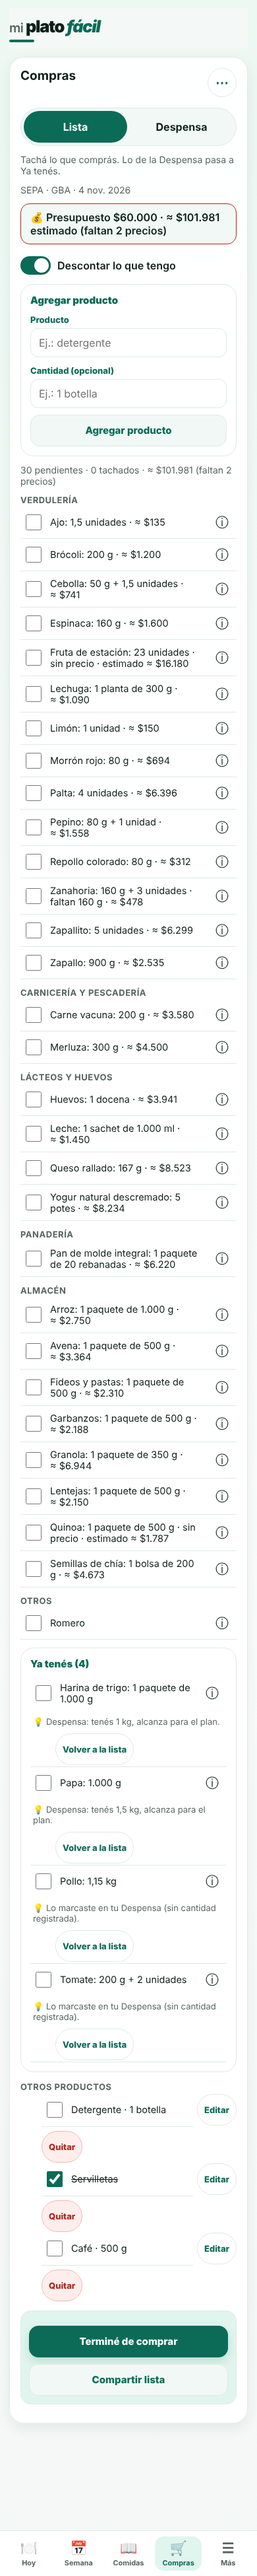
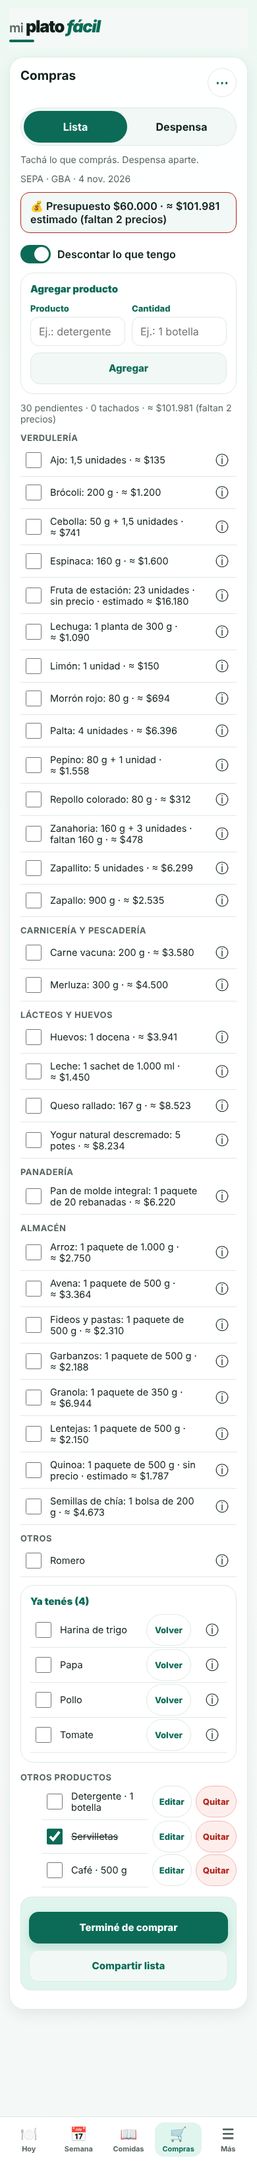
Etapa 41 (Ronda 5): sin desbordes a 320 px en Otros productos; código y CSS sin uso fuera
Claude-Session: https://claude.ai/code/session_013apjtgkZBa2FW5hJdYkK1c

diff --git a/index.html b/index.html
@@ -2184,17 +2184,6 @@ body:has(#home.is-active) .app-shell{
 
 }
 
-#quantShoppingPanel input[type="text"]{
-  width:100%;
-  min-height:44px;
-  padding:10px;
-  border:1px solid var(--line);
-  border-radius:12px;
-  background:var(--surface);
-  color:var(--text);
-  font:inherit
-}
-
 #pricePanel input,#pricePanel select{
   width:100%;
   min-height:44px;
@@ -3672,8 +3661,8 @@ select{max-width:100%;min-width:0}
 #manualShoppingForm{display:grid;grid-template-columns:1fr 1fr;gap:0 10px;align-items:start}
 #manualShoppingForm .portion-field+.portion-field{margin-top:0}
 #manualShoppingForm .summary-actions{grid-column:1 / -1}
-#manualShopList .manual-shop-row{flex-wrap:nowrap}
-#manualShopList .manual-shop-row .shop-item{flex:1 1 0;min-width:0}
+#manualShopList .manual-shop-row .shop-item{flex:1 1 150px;min-width:0}
+#manualShopList .manual-shop-row .shop-item>span{min-width:0;overflow-wrap:anywhere}
 #manualShopList .manual-shop-row .filter-chip{flex:0 0 auto}
 .despensa-revisar{margin:12px 0}
 .despensa-revisar .button{width:100%}
@@ -12534,7 +12523,6 @@ document.addEventListener("click",e=>{
       }
       if(u.keys)u.keys.forEach(k=>comprasTransferred.delete(k));
       RegistroRapido.afterOneTap();
-      if(key==="bought")renderCompras();
       RegistroRapido.oneTapStatus(u.status,"Listo, se deshizo.")
     }
   }catch(err){

diff --git a/fuente/estilos.css b/fuente/estilos.css
@@ -2183,17 +2183,6 @@ body:has(#home.is-active) .app-shell{
 
 }
 
-#quantShoppingPanel input[type="text"]{
-  width:100%;
-  min-height:44px;
-  padding:10px;
-  border:1px solid var(--line);
-  border-radius:12px;
-  background:var(--surface);
-  color:var(--text);
-  font:inherit
-}
-
 #pricePanel input,#pricePanel select{
   width:100%;
   min-height:44px;
@@ -3671,8 +3660,8 @@ select{max-width:100%;min-width:0}
 #manualShoppingForm{display:grid;grid-template-columns:1fr 1fr;gap:0 10px;align-items:start}
 #manualShoppingForm .portion-field+.portion-field{margin-top:0}
 #manualShoppingForm .summary-actions{grid-column:1 / -1}
-#manualShopList .manual-shop-row{flex-wrap:nowrap}
-#manualShopList .manual-shop-row .shop-item{flex:1 1 0;min-width:0}
+#manualShopList .manual-shop-row .shop-item{flex:1 1 150px;min-width:0}
+#manualShopList .manual-shop-row .shop-item>span{min-width:0;overflow-wrap:anywhere}
 #manualShopList .manual-shop-row .filter-chip{flex:0 0 auto}
 .despensa-revisar{margin:12px 0}
 .despensa-revisar .button{width:100%}

diff --git a/fuente/codigo/34-registrar-en-un-toque.js b/fuente/codigo/34-registrar-en-un-toque.js
@@ -184,7 +184,6 @@ document.addEventListener("click",e=>{
       }
       if(u.keys)u.keys.forEach(k=>comprasTransferred.delete(k));
       RegistroRapido.afterOneTap();
-      if(key==="bought")renderCompras();
       RegistroRapido.oneTapStatus(u.status,"Listo, se deshizo.")
     }
   }catch(err){

diff --git a/docs/plan-rediseno.md b/docs/plan-rediseno.md
@@ -3098,3 +3098,5 @@ Rama `rediseno-5-etapa-41-compras` (desde `rediseno-5`). Ítems: K-01 a K-17. To
 
 **Pruebas adaptadas** (cada una con su ítem; ninguna se borró ni bajó de cantidad): `e5_compras.js` (C5-1, C5-3, C5-4, C5-6, C5-8, C5-9: sin Deshacer, menú de tres herramientas, existencias desde Despensa), `dp01_despensa.js` (DP7 y DP8: ya no se deshace, se vuelve a cargar), `u01_toque.js` (U7: "Lo compré" sin Deshacer), `n01_nav.js` (N14: sin "Ver la semana"), `r4_ux.js` (X5), `m01_modo.js` (M2, M3, M6), `r2_dom.js` (D2 a D5: cada panel que queda escribe en su propio estado), `r2_fixtures.js` (`openPanel` abre las herramientas de Compras que ya no son `<details>`), `r3_rec.js` (E5a), `r2_uni.js` (U1 a U4), `f02_desp.js` (D1 a D3), `f01_int.js` (M4), `f02_units.js` (U5c, U9), `f03_plan.js` (P2c), `r2_pan.js` (P4), `r2_shop.js` (S3, S3b, S4b), `e1_confianza.js`, `e4_comidas.js` (C4-8), `e10_pulido.js` (C10-4). Una de ellas encontró un error real: dos llamadas a `Existencias.renderStockQuantities` quedaron después de eliminarla (se sacaron).
 **Tres fallas que ya traía `rediseno-5`** (se corrieron en lunes 23/11, y dependían del día o de la semilla de la fecha; E25-adopcion falla igual en `main` v18.8.0): `e3_hoy.js` C3-5h (la idea sugerida del desayuno puede no traer fruta aparte), `e25_arreglos.js` E25-adopcion (usa un hueco cuya comida cambia de una semana a la otra) y `r5e37_comida.js` R5-C-01 (el último flujo arma un plato distinto: guardar el mismo plato reusa la misma comida y, un lunes, el almuerzo de Hoy ya lo tenía). No cambian lo que exigen.
+
+**Fallas de la compuerta de la Etapa 41 y su arreglo.** (1) `E1-palabras-compras` y `R4-26-alto` (ver la decisión de R5-K-03). (2) `E17-anchos`: a 320 px los textos "Detergente · 1 botella" y "Servilletas" de "Otros productos" desbordaban porque al compactar la fila (Editar y Quitar en la misma línea) el texto no podía achicarse: ahora el texto parte y la fila puede pasar a dos líneas si no entra (`flex:1 1 150px`; a 390 px sigue en una). Sin desbordes, cortados ni superpuestos a 320, 360 y 390 px, en claro y oscuro. `revisor-codigo` lo marcó BLOQUEANTE antes de que lo viera la compuerta completa; también sugirió (hecho) sacar la regla CSS huérfana de `#quantShoppingPanel` y la rama muerta `key==="bought"` de `34-registrar-en-un-toque.js`. Quedan como observaciones: `devolverALaLista` reescribe `{}` si lo guardado era inválido (se pierde solo basura); el motivo de "Ya tenés" solo está en el `title` (ver la decisión).
